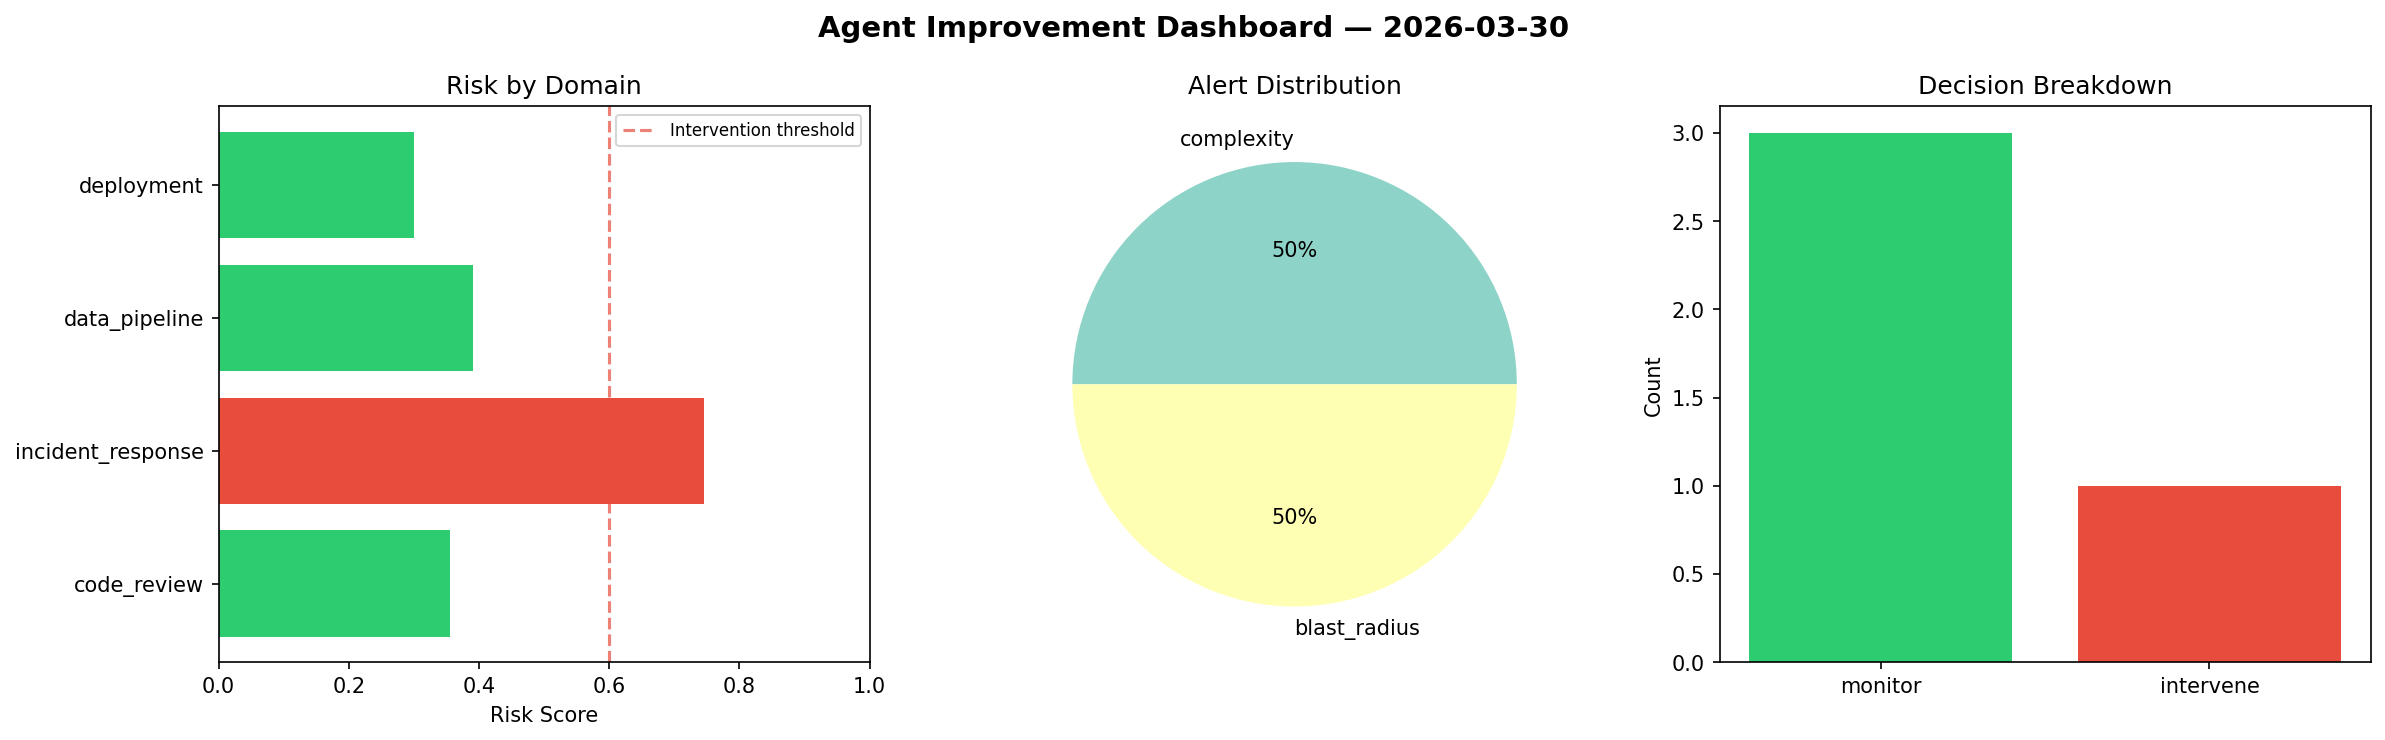
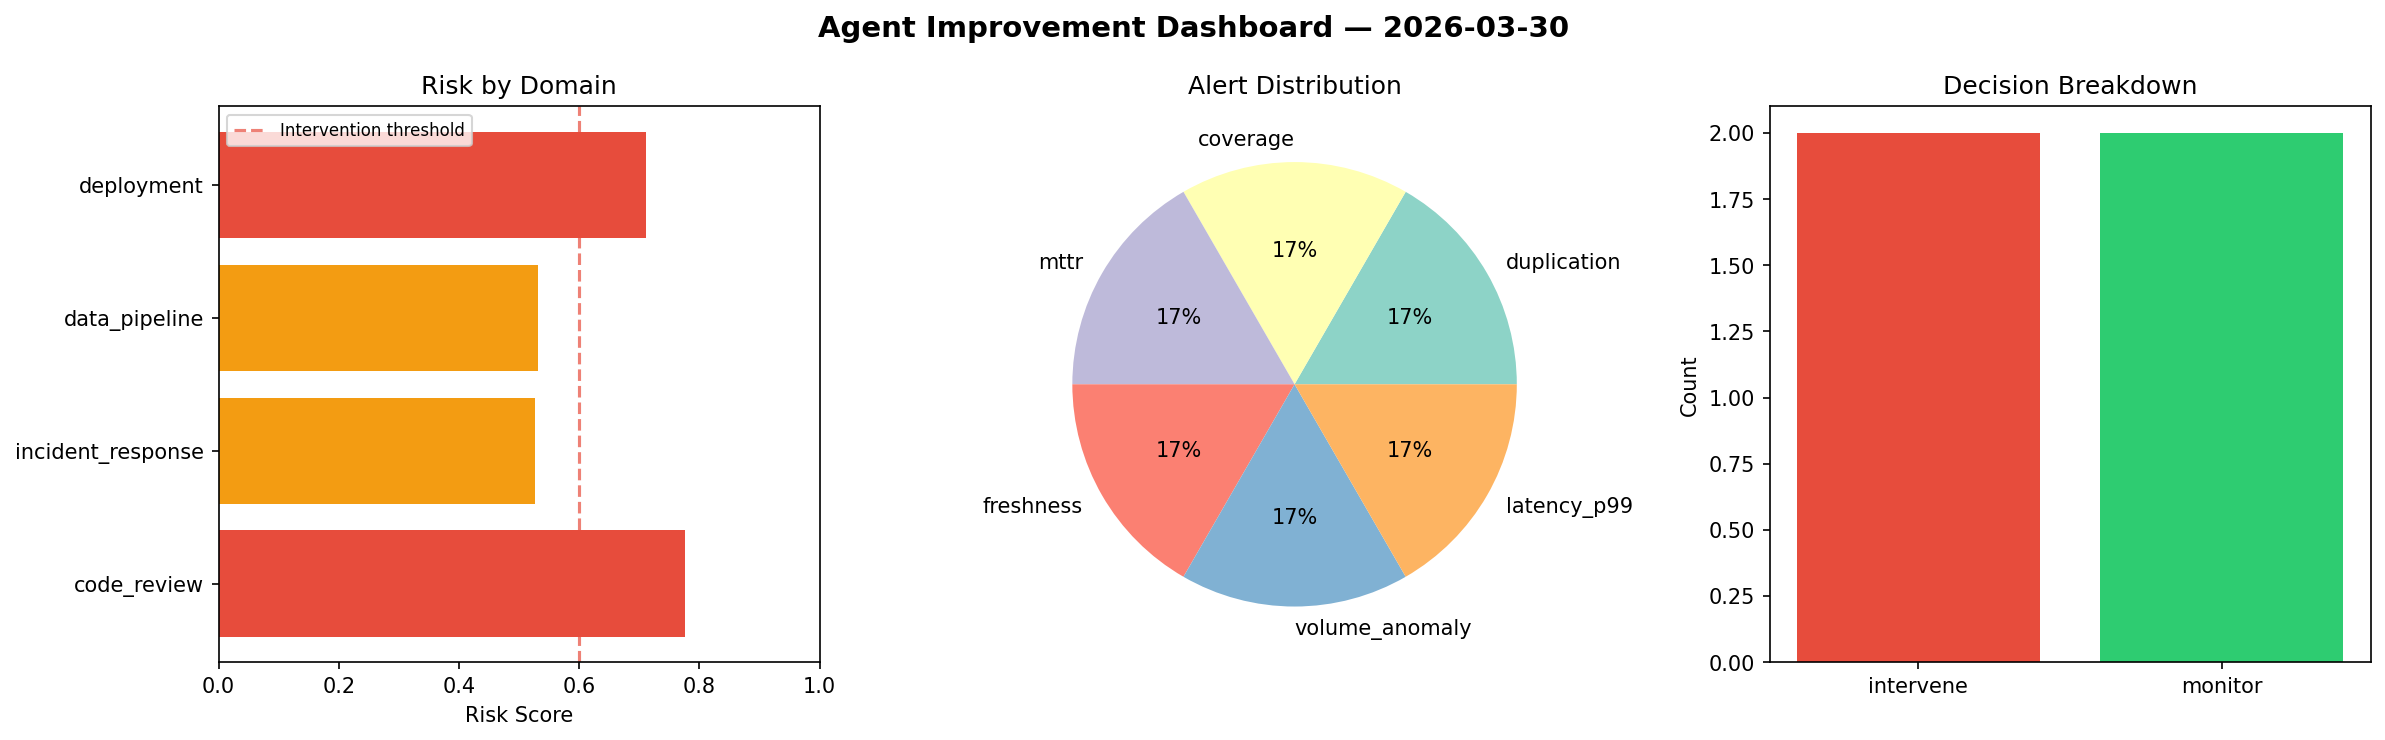
agent-improvement: daily cycle 2026-03-30T09:48

diff --git a/logs/2026-03-30.md b/logs/2026-03-30.md
@@ -1,6 +1,6 @@
 # Agent Improvement Report — 2026-03-30
 
-**Cycle ID:** `08b4b36c` | **Avg Risk:** 0.4483 | **Interventions:** 1/4
+**Cycle ID:** `d015a7aa` | **Avg Risk:** 0.636 | **Interventions:** 2/4
 
 ![Dashboard](2026-03-30_dashboard.png)
 
@@ -10,18 +10,18 @@
 
 | Domain | Risk Score | Decision | Alerts |
 |--------|-----------|----------|--------|
-| code_review | 0.3562 | monitor | complexity |
-| incident_response | 0.7454 | intervene | blast_radius |
-| data_pipeline | 0.3911 | monitor | none |
-| deployment | 0.3006 | monitor | none |
+| code_review | 0.7755 | intervene | duplication, coverage |
+| incident_response | 0.5258 | monitor | mttr |
+| data_pipeline | 0.5313 | monitor | freshness, volume_anomaly |
+| deployment | 0.7113 | intervene | latency_p99 |
 
 ## Delta vs Yesterday
 
 | Domain | Today | Yesterday | Change |
 |--------|-------|-----------|--------|
-| code_review | 0.3562 | 0.4373 | 📉 -18.5% |
-| incident_response | 0.7454 | 0.3568 | 📈 108.9% |
-| data_pipeline | 0.3911 | 0.8162 | 📉 -52.1% |
-| deployment | 0.3006 | 0.3935 | 📉 -23.6% |
+| code_review | 0.7755 | 0.4373 | 📈 77.3% |
+| incident_response | 0.5258 | 0.3568 | 📈 47.4% |
+| data_pipeline | 0.5313 | 0.8162 | 📉 -34.9% |
+| deployment | 0.7113 | 0.3935 | 📈 80.8% |
 
 **Refinement:** `{'adjustment': 'maintain', 'trend': 'improving', 'window': 4}`
